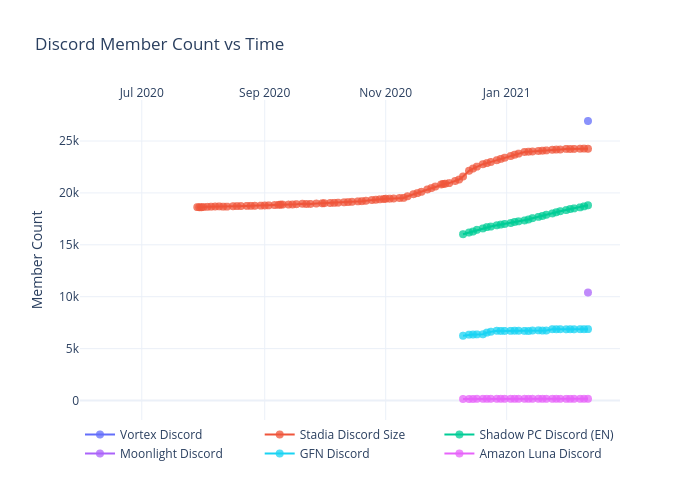
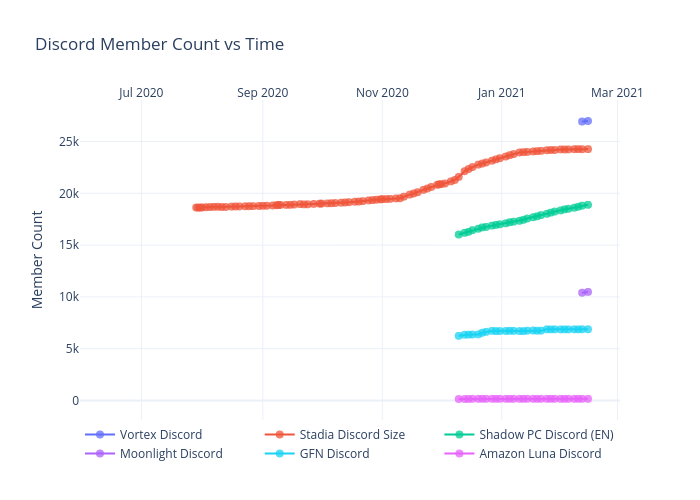
Add files via upload

diff --git a/discord/figure.js b/discord/figure.js
@@ -105,7 +105,8 @@ var figure = {
                 "2021-02-04",
                 "2021-02-07",
                 "2021-02-09",
-                "2021-02-11"
+                "2021-02-11",
+                "2021-02-14"
             ],
             "ysrc": "jdeslip:374:da5b35",
             "y": [
@@ -202,7 +203,8 @@ var figure = {
                 null,
                 null,
                 "",
-                "26928"
+                "26928",
+                "26979"
             ],
             "marker": {
                 "size": 8,
@@ -317,7 +319,8 @@ var figure = {
                 "2021-02-04",
                 "2021-02-07",
                 "2021-02-09",
-                "2021-02-11"
+                "2021-02-11",
+                "2021-02-14"
             ],
             "ysrc": "jdeslip:374:7ac37c",
             "y": [
@@ -414,7 +417,8 @@ var figure = {
                 "24238",
                 "24259",
                 "24269",
-                "24254"
+                "24254",
+                "24265"
             ],
             "marker": {
                 "size": 8,
@@ -529,7 +533,8 @@ var figure = {
                 "2021-02-04",
                 "2021-02-07",
                 "2021-02-09",
-                "2021-02-11"
+                "2021-02-11",
+                "2021-02-14"
             ],
             "ysrc": "jdeslip:374:c98e1c",
             "y": [
@@ -626,7 +631,8 @@ var figure = {
                 "18509",
                 "18608",
                 "18702",
-                "18809"
+                "18809",
+                "18886"
             ],
             "marker": {
                 "size": 8,
@@ -741,7 +747,8 @@ var figure = {
                 "2021-02-04",
                 "2021-02-07",
                 "2021-02-09",
-                "2021-02-11"
+                "2021-02-11",
+                "2021-02-14"
             ],
             "ysrc": "jdeslip:374:bae53e",
             "y": [
@@ -838,7 +845,8 @@ var figure = {
                 null,
                 null,
                 "",
-                "10405"
+                "10405",
+                "10482"
             ],
             "marker": {
                 "size": 8,
@@ -953,7 +961,8 @@ var figure = {
                 "2021-02-04",
                 "2021-02-07",
                 "2021-02-09",
-                "2021-02-11"
+                "2021-02-11",
+                "2021-02-14"
             ],
             "ysrc": "jdeslip:374:08922f",
             "y": [
@@ -1050,6 +1059,7 @@ var figure = {
                 "6861",
                 "6872",
                 "6869",
+                "6877",
                 "6877"
             ],
             "marker": {
@@ -1165,7 +1175,8 @@ var figure = {
                 "2021-02-04",
                 "2021-02-07",
                 "2021-02-09",
-                "2021-02-11"
+                "2021-02-11",
+                "2021-02-14"
             ],
             "ysrc": "jdeslip:374:3547f6",
             "y": [
@@ -1262,7 +1273,8 @@ var figure = {
                 "162",
                 "162",
                 "164",
-                "164"
+                "164",
+                "162"
             ],
             "marker": {
                 "size": 8,
@@ -1281,8 +1293,8 @@ var figure = {
             "side": "top",
             "type": "date",
             "range": [
-                "2020-06-01 03:51:44.009",
-                "2021-02-25 20:08:15.991"
+                "2020-05-31 23:24:37.8091",
+                "2021-03-01 00:35:22.1909"
             ],
             "title": {
                 "text": ""
@@ -1292,8 +1304,8 @@ var figure = {
         "yaxis": {
             "type": "linear",
             "range": [
-                -1770.3049236970921,
-                28844.30492369709
+                -1773.95407428736,
+                28898.95407428736
             ],
             "title": {
                 "text": "Member Count"
